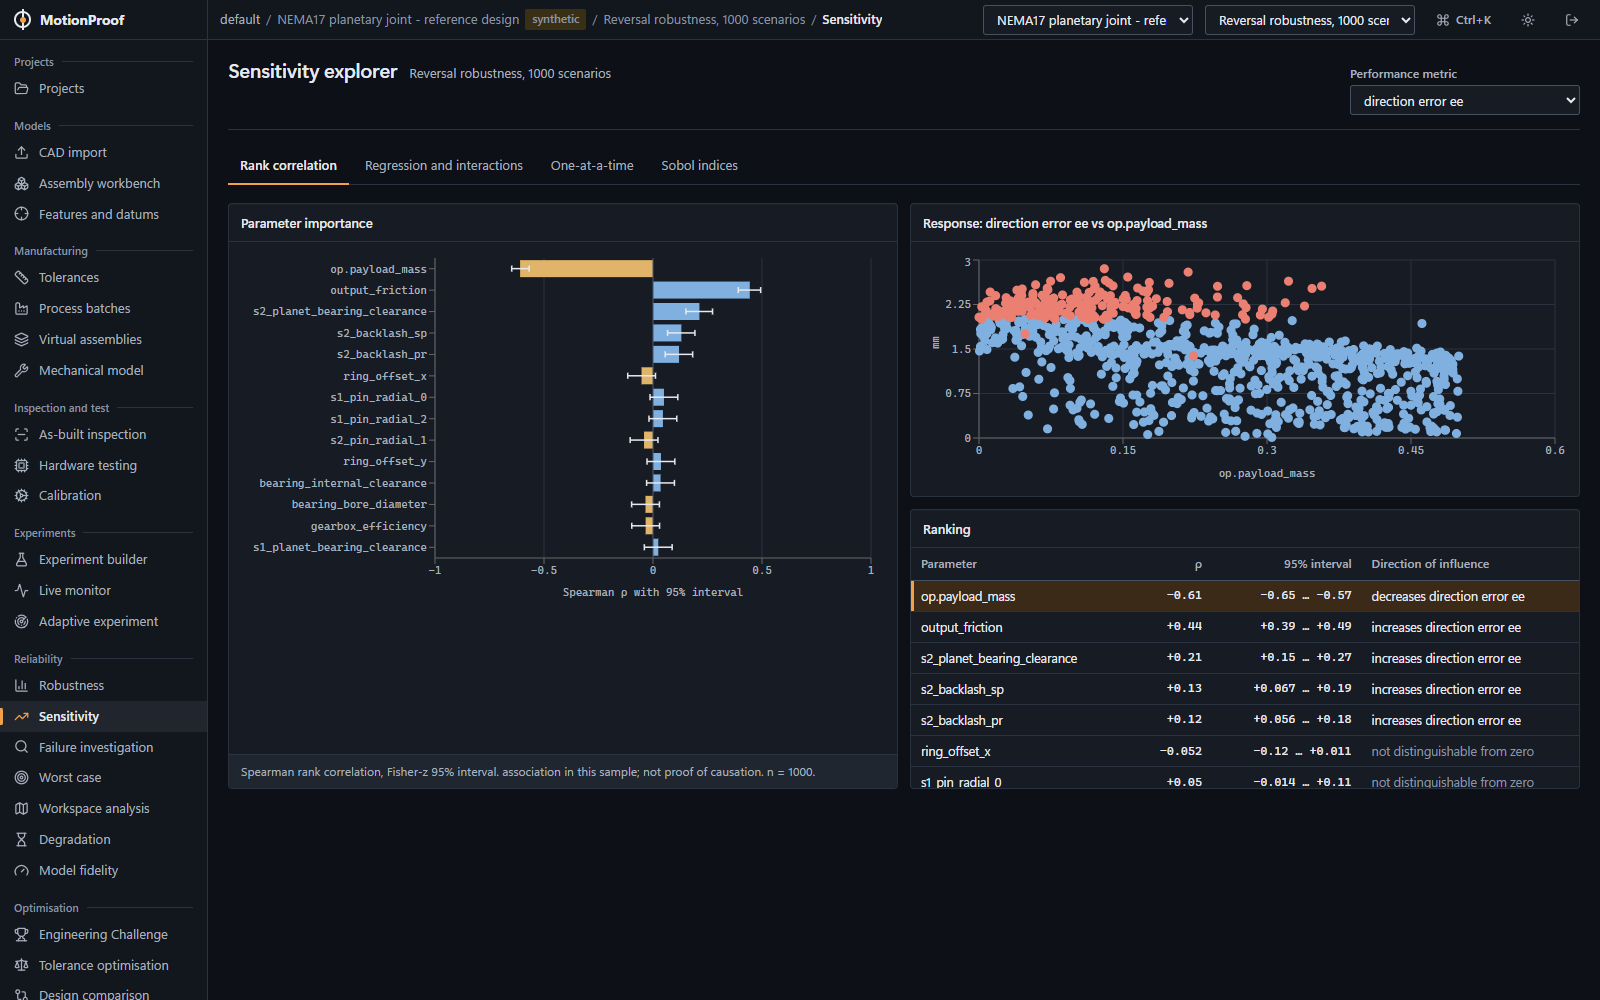
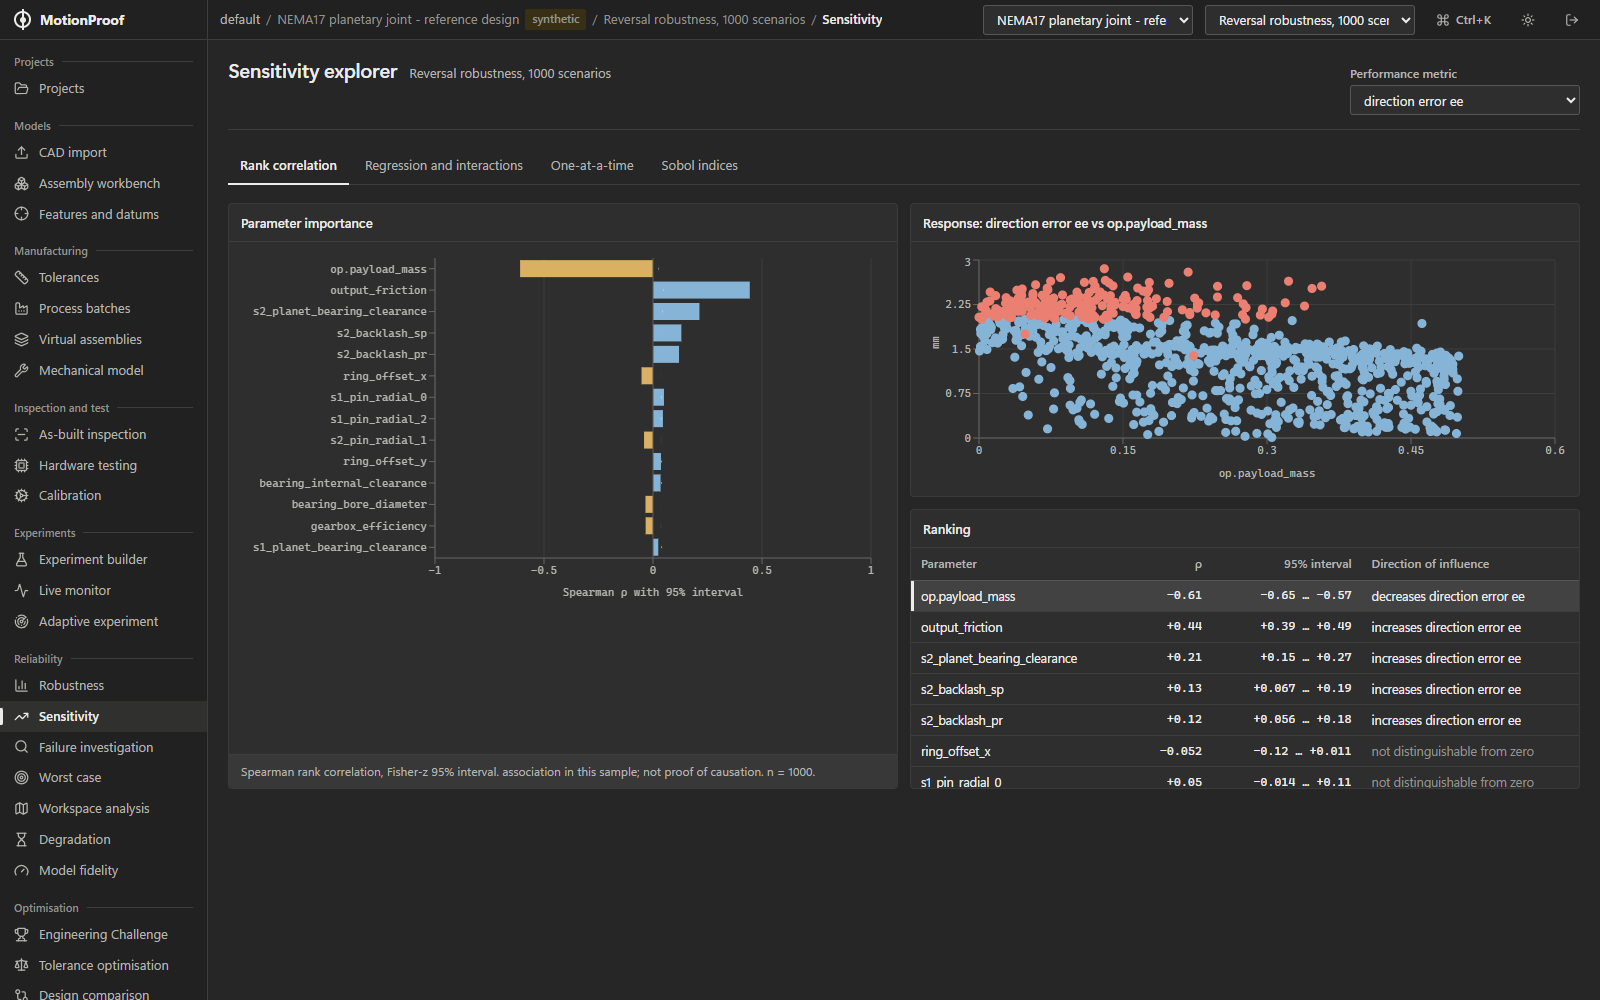
Dark theme: neutral graphite greys instead of near-black slate; homepage screenshots retaken

diff --git a/frontend/src/features/home.css b/frontend/src/features/home.css
@@ -1,9 +1,9 @@
 /* Public homepage. Fixed dark palette: the app's dark slate neutrals, ink-white actions and steel markers, so home,
    sign-in and app read as one product. */
 .hm {
-  --h-bg: #0d1117; --h-bg2: #12171e; --h-ink: #e6e9ee; --h-mut: #a7b0bd; --h-line: #2b3340;
+  --h-bg: #1f1f1f; --h-bg2: #262626; --h-ink: #ececea; --h-mut: #b5b5b1; --h-line: #3a3a3a;
   /* ink buttons; small markers use the steel data colour */
-  --h-acc: #8fb3c6; --accent: #e6e9ee; --accent-text: #0d1117; --mp-accent-hover: #ffffff;
+  --h-acc: #8fb3c6; --accent: #ececea; --accent-text: #1f1f1f; --mp-accent-hover: #ffffff;
   background: var(--h-bg); color: var(--h-ink); min-height: 100%; overflow-x: clip;
 }
 html:has(.hm), body:has(.hm) { height: auto; overflow: visible; }
@@ -18,11 +18,11 @@ body:has(.hm) #root { height: auto; }
 .hm .btn:active:not(:disabled) { transform: translateY(1px); }
 .hm .btn.primary:hover svg { transform: translateX(2px); }
 .hm .btn svg { transition: transform var(--mp-fast) var(--mp-ease); }
-.hm .hm-ghost { background: transparent; color: var(--h-ink); border-color: #46505f; }
+.hm .hm-ghost { background: transparent; color: var(--h-ink); border-color: #565656; }
 .hm .hm-ghost:hover:not(:disabled) { background: #ffffff14; border-color: var(--h-ink); }
 
 /* nav */
-.hm-nav { position: fixed; z-index: 20; inset: 0 0 auto 0; height: 60px; display: flex; align-items: center; justify-content: space-between; padding: 0 32px; background: linear-gradient(#0d1117e6, #0d1117a0 70%, transparent); backdrop-filter: blur(6px); }
+.hm-nav { position: fixed; z-index: 20; inset: 0 0 auto 0; height: 60px; display: flex; align-items: center; justify-content: space-between; padding: 0 32px; background: linear-gradient(#1f1f1fe6, #1f1f1fa0 70%, transparent); backdrop-filter: blur(6px); }
 .hm-brand { display: inline-flex; align-items: center; gap: 9px; font: 650 15px var(--sans); letter-spacing: -0.01em; }
 .hm-brand .mark { width: 18px; height: 18px; position: relative; border: 2px solid currentColor; border-radius: 50%; }
 .hm-brand .mark::before { content: ""; position: absolute; left: 50%; top: -5px; bottom: -5px; width: 2px; margin-left: -1px; background: currentColor; }
@@ -40,7 +40,7 @@ body:has(.hm) #root { height: auto; }
 .sq-stick::before, .sq-stick::after { content: ""; position: absolute; left: 0; right: 0; height: 9vh; background: #000; z-index: 3; pointer-events: none; }
 .sq-stick::before { top: 0; } .sq-stick::after { bottom: 0; }
 .sq-shade { background-image: radial-gradient(ellipse at 60% 50%, transparent 45%, #000b 100%); }
-.sq-shade { position: absolute; inset: 0; pointer-events: none; background: linear-gradient(90deg, #0d1117d9 0%, #0d111766 38%, transparent 62%), linear-gradient(#0d111788, transparent 22%, transparent 74%, #0d1117cc); }
+.sq-shade { position: absolute; inset: 0; pointer-events: none; background: linear-gradient(90deg, #1f1f1fd9 0%, #1f1f1f66 38%, transparent 62%), linear-gradient(#1f1f1f88, transparent 22%, transparent 74%, #1f1f1fcc); }
 .sq-cap { position: absolute; left: max(32px, calc((100vw - 1240px) / 2)); top: 50%; margin-top: -170px; width: min(560px, calc(100% - 64px)); will-change: opacity, transform; }
 .sq-cap h1, .sq-cap h2 { font-size: clamp(32px, 4.1vw, 60px); line-height: 1.04; margin: 0 0 20px; }
 .sq-hint { position: absolute; left: 50%; bottom: 28px; transform: translateX(-50%); display: flex; flex-direction: column; align-items: center; gap: 10px; font: 500 10.5px var(--mono); letter-spacing: 0.1em; text-transform: uppercase; color: var(--h-mut); }
@@ -85,7 +85,7 @@ body:has(.hm) #root { height: auto; }
 .hm-hist rect { transition: height 140ms var(--mp-ease), y 140ms var(--mp-ease); }
 .hm-hist rect.p { fill: #8fb3c6; } .hm-hist rect.f { fill: #f07f76; }
 .hm-hist .lim { stroke: var(--h-acc); stroke-width: 1.5; stroke-dasharray: 4 3; }
-.hm-hist .ax { stroke: #46505f; stroke-width: 1; }
+.hm-hist .ax { stroke: #565656; stroke-width: 1; }
 .hm-axis { display: flex; justify-content: space-between; font: 500 11px var(--mono); color: var(--h-mut); margin-top: 8px; }
 .hm-facts { display: flex; gap: 0; margin: 22px 0 0; border-top: 1px solid var(--h-line); }
 .hm-facts > div { flex: 1; padding-top: 14px; }
@@ -117,7 +117,7 @@ body:has(.hm) #root { height: auto; }
 .hm-tabs button { all: unset; box-sizing: border-box; cursor: pointer; padding: 10px 18px; font-size: 13.5px; color: var(--h-mut); transition: background var(--mp-fast), color var(--mp-fast); }
 .hm-tabs button + button { border-left: 1px solid var(--h-line); }
 .hm-tabs button:hover { color: var(--h-ink); background: #ffffff0d; }
-.hm-tabs button.on { background: var(--h-ink); color: #0d1117; }
+.hm-tabs button.on { background: var(--h-ink); color: #1f1f1f; }
 .hm-tabs button:focus-visible { outline: 2px solid var(--h-acc); outline-offset: 2px; }
 .hm-frame { position: relative; border: 1px solid var(--h-line); background: var(--h-bg); aspect-ratio: 16 / 9.2; overflow: hidden; }
 .hm-chrome { position: absolute; z-index: 2; left: 0; right: 0; top: 0; height: 30px; background: #1a1d1b; display: flex; align-items: center; gap: 6px; padding: 0 12px; }
@@ -141,7 +141,7 @@ body:has(.hm) #root { height: auto; }
   .hm-wrap, .hm-sec > .hm-wrap { width: calc(100% - 40px); }
   .hm-nav { padding: 0 20px; }
   .sq { height: 420vh; } .sq-cap { left: 20px; width: calc(100% - 40px); top: auto; bottom: 90px; margin-top: 0; } .sq-dots, .sq-note { display: none; }
-  .sq-shade { background: linear-gradient(#0d1117b0, transparent 30%, transparent 40%, #0d1117f0 85%); }
+  .sq-shade { background: linear-gradient(#1f1f1fb0, transparent 30%, transparent 40%, #1f1f1ff0 85%); }
   .hm-proof { flex-wrap: wrap; padding: 0 20px; }
   .hm-proof li { flex: 1 1 50%; padding: 12px 0; } .hm-proof li + li { border-left: 0; padding-left: 0; }
   .hm-split, .hm-closegrid { grid-template-columns: 1fr; gap: 40px; }

diff --git a/frontend/src/styles.css b/frontend/src/styles.css
@@ -394,14 +394,16 @@ table.grid tr.selected td:first-child { box-shadow: inset 3px 0 0 var(--accent);
 
 /* ---- dark mode: three distinct levels (ground, chrome, surface) and readable rules ---- */
 [data-theme="dark"] {
-  --bg: #0d1117; --surface: #171c24; --surface-2: #1f2630; --border: #2b3340; --border-strong: #46505f;
-  --text: #e6e9ee; --muted: #a7b0bd; --faint: #8a94a2;
-  /* ink, not a brand colour: primary actions are off-white on slate, like ink on a drawing */
-  --accent: #e6e9ee; --accent-weak: #262e3a; --accent-text: #0d1117; --accent-hover: #ffffff;
-  --data: #7fb0e0; --data-2: #e0b469; --viewport: #11161d; --grid: #2b3340;
+  /* neutral graphite, the greys of CAD and 3D tools: no blue cast, clear steps between ground,
+     panels and inputs, and not near-black */
+  --bg: #262626; --surface: #2e2e2e; --surface-2: #383838; --border: #3d3d3d; --border-strong: #565656;
+  --text: #ececea; --muted: #b5b5b1; --faint: #94948f;
+  /* ink, not a brand colour: primary actions are off-white on graphite, like ink on a drawing */
+  --accent: #ececea; --accent-weak: #424242; --accent-text: #1e1e1e; --accent-hover: #ffffff;
+  --data: #86b4d6; --data-2: #d9b064; --viewport: #2a2a2a; --grid: #3a3a3a;
 }
-[data-theme="dark"] .nav, [data-theme="dark"] .topbar { background: #12171e; }
-[data-theme="dark"] .panel { border-color: #29313d; box-shadow: 0 1px 0 rgba(255, 255, 255, 0.02) inset; }
+[data-theme="dark"] .nav, [data-theme="dark"] .topbar { background: #212121; }
+[data-theme="dark"] .panel { border-color: #3a3a3a; box-shadow: none; }
 [data-theme="dark"] table.grid th { border-bottom-color: var(--border-strong); }
 [data-theme="dark"] .page { gap: 18px; }
 @media (prefers-reduced-motion: reduce) { .pick-list button::before, .pick-go { transition: none; } }
